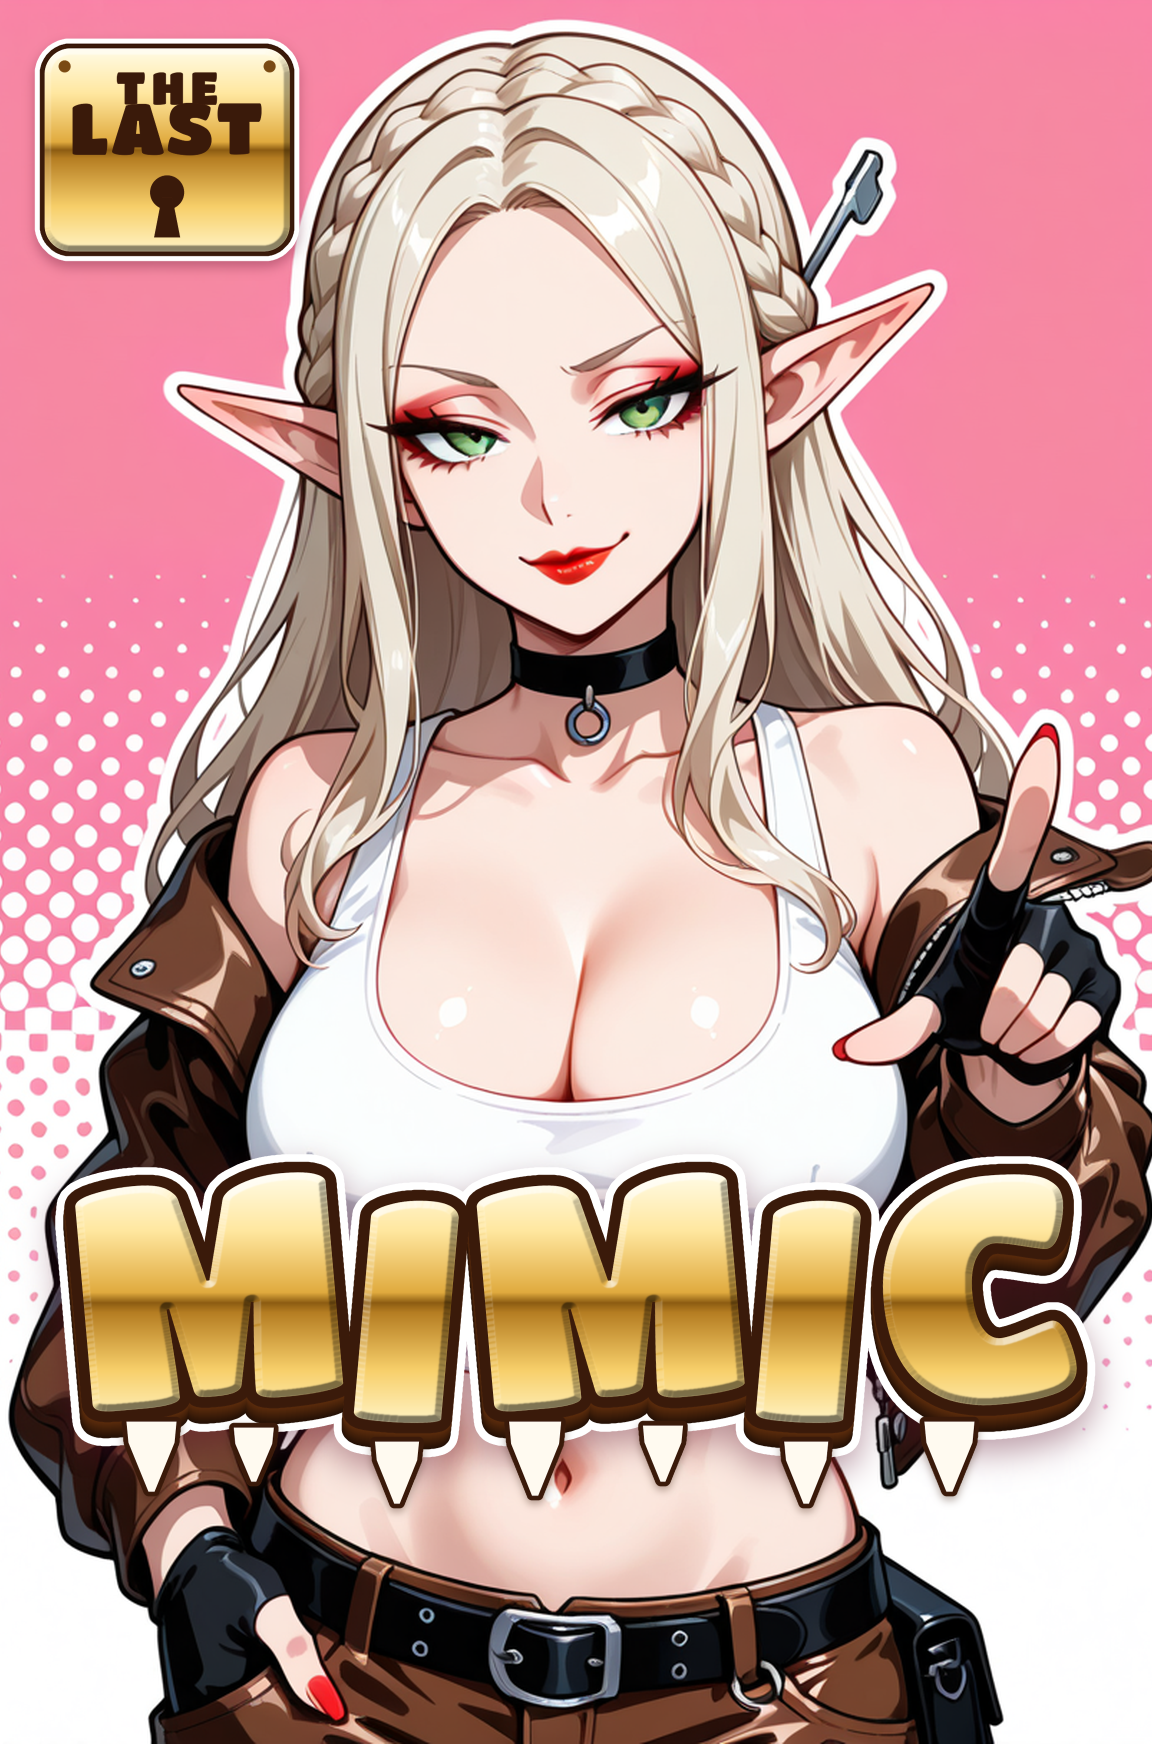
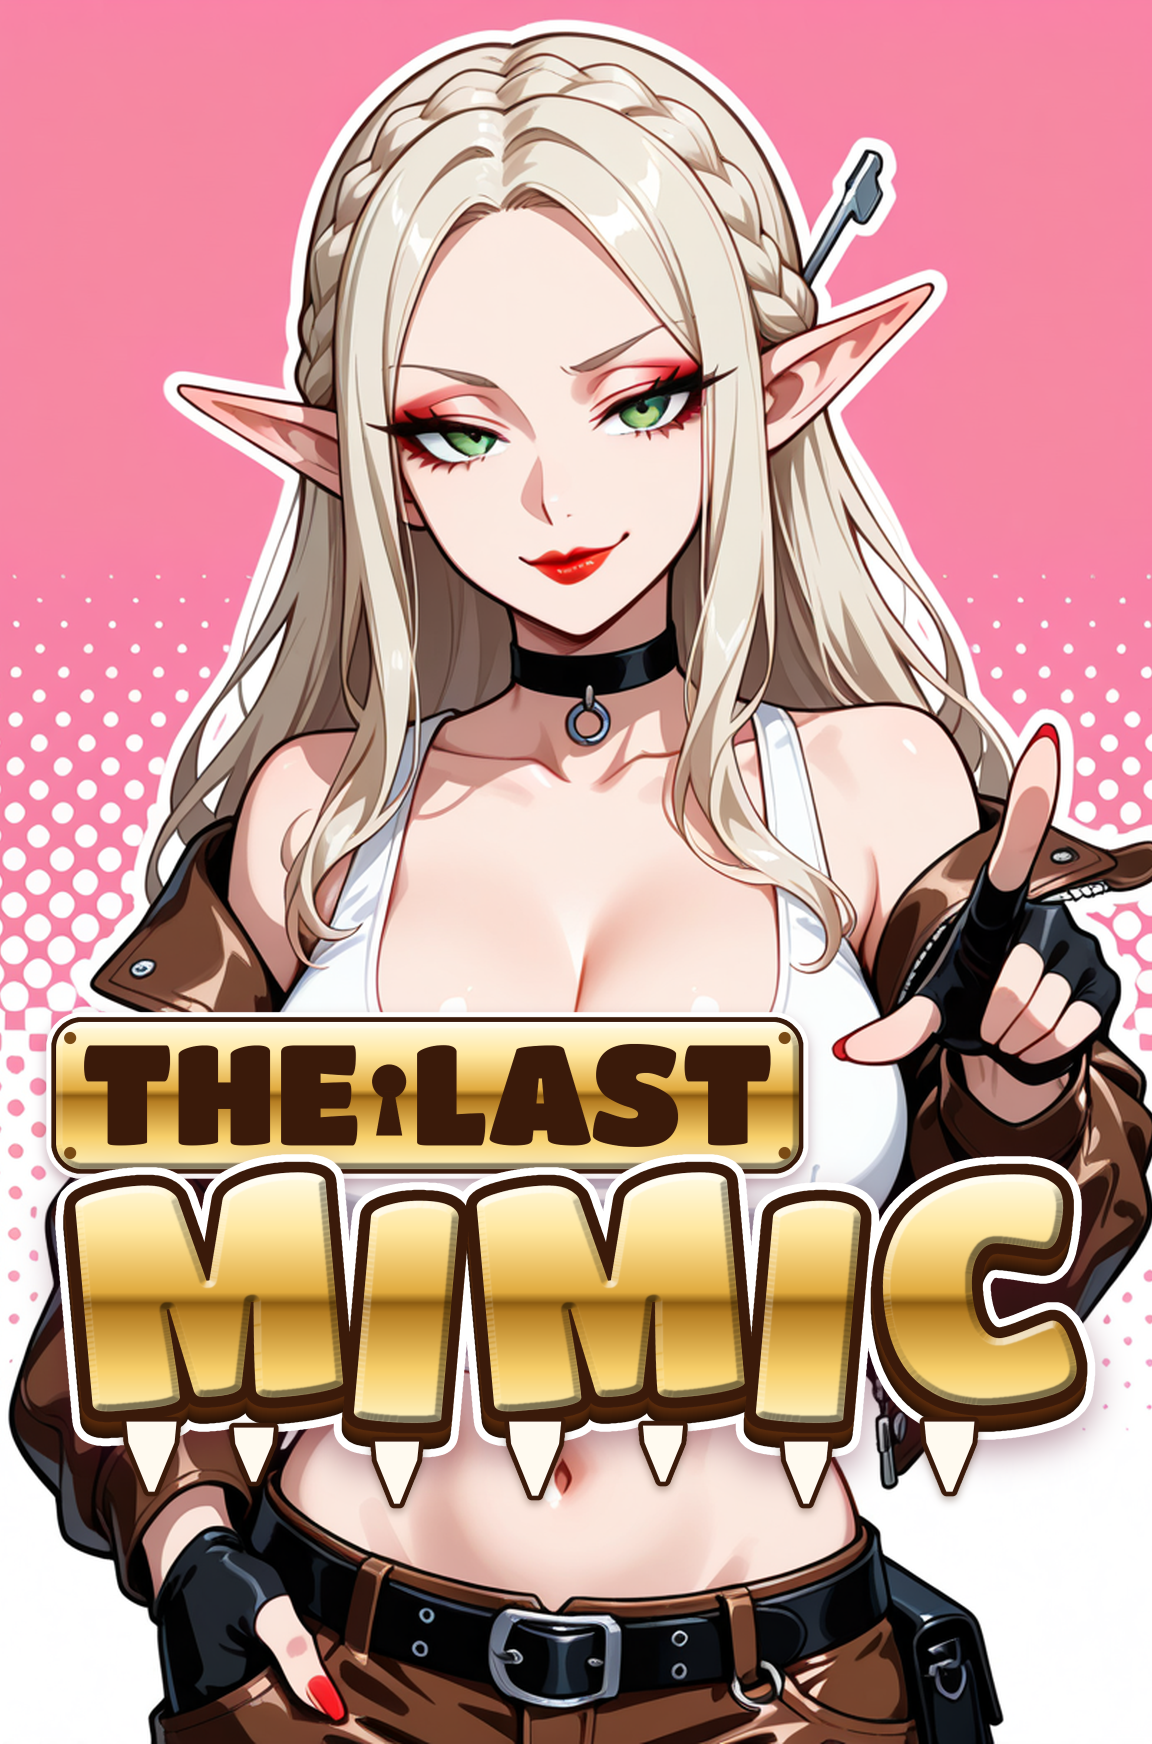
Cover titles v4: bigger lead-ins and more contrast on five weak covers
Three Heroines: navy outer stroke 21 -> 30 with a crisper navy shadow so
the script parts from the red sleeves; the and-a-Porter tag is about 1.4x
(Porter cap 48 -> 67) and its string now runs from the eyelet to the title.
Three Feet Apart: THREE / FEET at a 96 px cap (was 64-70), APART 159
(was 137), heavier black outline, tape shortened to the gap. Ranking Board:
THE white on a red tab at a 70 px cap (was red on smoked glass, 54),
RANKING / BOARD 110 / 148 (was 92 / 124), panel near-opaque. Hero's Spare:
THE HERO'S 96 -> 128 px (cap 90) with a dark keyline; the whole block moves
to the empty top band, since the 1.7x tag covered her hand on the hilt
(placement LL -> TB). Last Mimic: THE LAST on one line at a 100 px cap
(was 33 / 51) on the gold lock plate, keyhole between the words, docked on
MIMIC's top-left corner clear of her thumb. Hand boxes added to the
avoid lists. ALLOCATION rows, zones and the hero-word rule updated
(lead-ins at least ~45% of the hero cap); the checker passes.

Changed region(s): [[0.0312, 0.5573, 0.7188, 0.6812], [0.0312, 0.0, 0.2812, 0.1548]]

diff --git a/docs/stories-50/cover-style-v3/titles/ALLOCATION.md b/docs/stories-50/cover-style-v3/titles/ALLOCATION.md
@@ -37,7 +37,8 @@ raws with the v4 centred crop and checked on an overlay of every cover. Zone is 
 title ink goes; Face boxes become the spec's `avoid` (multiply by 1152 and 1744). They are
 eyeballed, so keep a margin and run `--debug` on each render.
 
-**Hero word.** Each brief names one hero word, at least twice the cap height of the rest.
+**Hero word.** Each brief names one hero word, the biggest on the cover. Lead-in and small words
+are at least ~45% of its cap height, so every word still reads on a 160 px shelf tile.
 
 | # | storyId | Title | Recipe | Genre / tone | Primary | Accent | Place | Treatment | Zone | Face | Brief |
 |---|---|---|---|---|---|---|---|---|---|---|---|
@@ -73,21 +74,21 @@ eyeballed, so keep a margin and run `--debug` on each render.
 | 30 | story_struck_from_the_register | Struck From the Register | gilded-over-the-shoulder | Sword-house underdog drama; disgrace, resolve | Yuji Syuku | none | DG | rice-paper strip + brush strike | .04-.96,.63-.89 | .42-.60,.08-.22 | The family register: a torn cream rice-paper strip tilted -6 deg across the robe, "STRUCK FROM THE" small and hero "REGISTER" in Yuji Syuku black ink (the light serif reads solid on the paper), with one thick red dry-brush stroke struck through REGISTER. Ink and vermilion on cream over emerald and gold. |
 | 31 | story_ten_points_to_expulsion | Ten Points to Expulsion | holy-high-key | Points-system academy drama; tense, clever | Teko | VT323 | LL | points bar | .04-.96,.68-.90 | .40-.60,.05-.22 | Upright, no plate: a navy double rule like the head of a disciplinary notice, hero "TEN POINTS" in Teko 700 navy with TEN in red, "TO EXPULSION" in tracked Teko 600 navy at the same width, then a thick white points meter with a navy frame and only its first segment lit red; beside it the score "1000" struck through in red and a big red "10" in VT323. Navy and red on the white dress and window light. |
 | 32 | story_the_cult_master_wakes_as_a_servant | The Cult Master Wakes as a Servant | ink-and-one-red | Murim revenge, martial arts; cold, patient | Protest Revolution | Shippori Mincho B1 | DG | sumi swash knockout + hanko | .00-1.00,.66-1.00 | .42-.60,.08-.24 | A wide black sumi dry-brush swash tilted -6 deg across the trousers, bleeding off the right edge in dry streaks; on it "THE CULT" over hero "MASTER" (75% of the cover wide) in Protest Revolution paper-white, roughened and distressed so the strokes read as brush; a thin red rule, then "WAKES AS A SERVANT" in Shippori Mincho B1 800 white at a 45 px cap; a red hanko seal 教主 on the swash's top edge and a few ink splatters. Black ink, white paper, one red; nothing left in the top-right corner. |
-| 33 | story_the_hero_s_spare | The Hero’s Spare | system-window | Isekai survival comedy; the hero's backup | Gochi Hand | Marcellus | LL | gold banner + name-tag sticker | .06-.75,.69-.96 | .42-.60,.29-.42 | Scaled up so the joke reads on the shelf: a gold engraved banner "THE HERO'S" in Marcellus at 96 px, and slapped over its lower edge at -4 deg a white HELLO MY NAME IS name tag 70% of the cover wide with a red top band, where hero "SPARE" is scrawled in black Gochi Hand felt-tip at about a 150 px cap. Gold banner vs cheap sticker over the dark green lower left; her hand on the hilt stays visible. |
-| 34 | story_the_last_mimic | The Last Mimic | hot-pink-poster | Monster-isekai comedy; greedy, bouncy | Titan One | none | CW | treasure gold + fangs | .02-.16,.02-.12; .04-.96,.78-.97 | .32-.64,.04-.26 | Corner logo top-left: "THE LAST" on a small gold lock-plate tag. Giant hero at the bottom: "MIMIC" in Titan One treasure-gold metal with a dark-brown stroke, bouncy alternating jitter, and a row of white fangs hanging from the bottom edge like a chest lid. Gold and brown on hot pink. |
+| 33 | story_the_hero_s_spare | The Hero’s Spare | system-window | Isekai survival comedy; the hero's backup | Gochi Hand | Marcellus | TB | gold banner + name-tag sticker | .03-.86,.03-.29; .06-.42,.29-.30 | .42-.60,.29-.42 | Top band over the empty dark sky, so her face, the hologram hand and her hand on the hilt all stay clear: a gold engraved banner "THE HERO'S" in Marcellus at 128 px (cap about 90 px, with a thin dark keyline so it holds at shelf size), and slapped over its lower edge at -4 deg a white HELLO MY NAME IS name tag two thirds of the cover wide with a red top band, where hero "SPARE" is scrawled in black Gochi Hand felt-tip at about a 127 px cap. Gold banner vs cheap sticker on dark green. |
+| 34 | story_the_last_mimic | The Last Mimic | hot-pink-poster | Monster-isekai comedy; greedy, bouncy | Titan One | none | CW | treasure gold + fangs | .04-.70,.58-.68; .04-.96,.66-.91 | .32-.64,.04-.26 | "THE LAST" on a gold lock-plate tag (Titan One, dark brown, cap about 100 px, a keyhole between the words, a rivet at each corner) docked on the top-left corner of the giant hero word; the plate stops short of her pointing thumb. It was a cover-corner tag, too small to read on the shelf. Giant hero at the bottom: "MIMIC" in Titan One treasure-gold metal with a dark-brown stroke, bouncy alternating jitter, and a row of white fangs hanging from the bottom edge like a chest lid. Gold and brown on hot pink. |
 | 35 | story_the_maid_owns_the_house_now | The Maid Owns the House Now | gilded-over-the-shoulder | Role-reversal romcom; dry, glamorous | Playfair Display | Rubik Dirt | LL | velvet nameplate + auction stamp | .03-.97,.69-.96 | .50-.68,.06-.20 | A deep emerald-to-black velvet nameplate (gold inline border, soft shadow) in the lower left, 78% of the cover wide: hero "THE MAID" in upright Playfair Display 900 capitals, pearl-ivory with a gold edge and a dark keyline, a gold diamond rule, then "OWNS THE HOUSE" in tracked gold Playfair caps (ivory, not gold, so it does not echo the Inherited plaque). The punchline "NOW" is a big red auction rubber stamp in Rubik Dirt (double rough border, dark halo) at -8 deg, overlapping the plate's top edge. Gold and ivory on emerald velvet, one red. |
 | 36 | story_the_morning_of_the_gallows | The Morning of the Gallows | holy-high-key | Dark regression romance; cold, elegant | Bodoni Moda | Alex Brush + Cinzel | BT | script + Didone (sample) | .06-.94,.68-.96 | .33-.63,.06-.28 | Sample, kept as approved: "The Morning" in crimson Alex Brush, "OF THE" in Cinzel, hero "GALLOWS" in big black Bodoni Moda with diamond-ended rules. |
 | 37 | story_the_one_copper_inn | The One-Copper Inn | cosy-lamp-bokeh | Cosy isekai innkeeping romance; warm, homely | Rye | none | TB | hanging inn sign, copper | .08-.92,.02-.18 | .50-.64,.21-.31 | A hanging wooden inn sign (dark walnut plate on two chains up to the top edge) across the string lights: "THE ONE-COPPER" small and hero "INN" in Rye with copper metal fill and a carved dark inner shadow, a copper coin on the left end. Copper and walnut in amber light. |
 | 38 | story_the_only_girl_at_blackthorn | The Only Girl at Blackthorn | holy-high-key | Knight-academy romance rivalry; proud, sharp | Pirata One | Grenze Gotisch | UL | blackletter + crimson keyline + thorn vine | .03-.43,.02-.29 | .44-.62,.08-.25 | Upper left over the bright gothic window: "The Only Girl at" in Grenze Gotisch 600 crimson #b0345a at 64 px (its t reads), over hero "BLACK" / "THORN" on two lines in Pirata One solid black, each about 38% of the cover wide, with a thin white gap and a crimson keyline, and a crimson thorn-vine rule under THORN. Black and crimson on white window light; the bottom band is left to Thornwitch. |
 | 39 | story_the_only_man_at_thornwitch | The Only Man at Thornwitch | starlit-night | Witch-college romcom mystery; moonlit, mischievous | Limelight | Great Vibes | CG | moon-silver + thorn vines | .07-.93,.74-.95 | .43-.52,.10-.17 | Centred in the open galaxy below her dress, read as one title: "The Only Man at" in Great Vibes moon-silver with a navy stroke and a pale-blue glow, its tail tucked into the top of hero "THORNWITCH" in Limelight with moon-silver metal fill and a dark navy keyline, a thorn-vine ornament with silver thorns curling under it. Silver and navy on deep blue. |
-| 40 | story_the_ranking_board | The Ranking Board | thumbnail-pop | Fighting-college action; bruising, competitive | Barlow Condensed | none | LL | smoked-glass leaderboard | .02-.55,.62-.98 | .42-.65,.05-.24 | The glass ranking wall in the yellow burst under her fist, lower left: a smoked-glass panel with a white top rule, "THE" in red, hero "RANKING" and "BOARD" in Barlow Condensed italic 800 white (cap about 95 px), and three leaderboard rows (86, 87, 88) with 87 on a red bar. Smoked black glass and red on yellow. |
+| 40 | story_the_ranking_board | The Ranking Board | thumbnail-pop | Fighting-college action; bruising, competitive | Barlow Condensed | none | LL | smoked-glass leaderboard | .02-.62,.60-.98 | .42-.65,.05-.24 | The glass ranking wall in the yellow burst under her fist, lower left: a near-opaque smoked-glass panel with a white top rule, "THE" in white on a red tab (cap about 70 px), hero "RANKING" and "BOARD" in Barlow Condensed italic 800 white (caps about 110 and 148 px), and three leaderboard rows (86, 87, 88) with 87 on a red bar. Smoked black glass and red on yellow. |
 | 41 | story_the_villain_dies_in_chapter_three | The Villain Dies in Chapter Three | holy-high-key | Transmigration academy comedy; doomed, smug | UnifrakturMaguntia | Shippori Mincho B1 | DG | book page + ribbon bookmark | .25-.97,.77-.98 | .42-.64,.08-.28 | A web-novel page: a cream book page with a deckled edge tilted -6 deg over the white gown below her gloved hand, hero "The Villain" in UnifrakturMaguntia black (176 px), "dies in" in Shippori Mincho B1 600 at 64 px between two thin rules, "CHAPTER THREE" in Shippori caps on a red ribbon bookmark, and one red drop. Black and red on cream and white. |
 | 42 | story_the_wolf_clan_s_guest | The Wolf Clan’s Guest | cosy-lamp-bokeh | Beastfolk reverse-harem romance; winter camp, warm | Grenze Gotisch | none | BT | stitched leather banner | .06-.94,.76-.96 | .46-.64,.11-.25 | A stitched brown leather banner (ribbon shape, stitched edge) over the fur and boots: "THE WOLF CLAN'S" small and hero "GUEST" in Grenze Gotisch 800 bone-white from the fur with a dark keyline, a wolf-paw print at one end and a light frost sparkle. Bone and leather in lantern light. |
 | 43 | story_the_zombie_who_said_please | The Zombie Who Said Please | hot-pink-poster | Zombie survival comedy; polite undead | Creepster | Caveat | LR | slime drips + speech bubble | .40-.96,.73-.97 | .36-.62,.07-.29 | "THE" over hero "ZOMBIE" (about 0.48 of its cap) in Creepster slime green #8bd649 from the jacket with a dark stroke and drips, "who said" in Caveat bold (ascenders about 0.53 of ZOMBIE's cap) white with a dark stroke, a white outer line and ZOMBIE's pink drop shadow so it holds on the black trousers, and a pink speech bubble saying "Please" in Caveat bold black, right-aligned over the black trousers and green jacket. Slime green and pink. |
 | 44 | story_thin_walls | Thin Walls | melodrama-red-accent | Neighbour-rival romcom; sniping, close | Big Shoulders Display | none | LL | weight split + hairline wall | .03-.69,.86-.97 | .36-.60,.05-.21; .52-.70,.18-.31 | The pun in weights, one line under the rose, over the dark suit: "THIN" in Big Shoulders Display 400 ice-white at the same 142 px cap as WALLS (the pun is in the weight, not the size) with a 3 px dark keyline, a single glowing hairline standing between the words like the wall, then hero "WALLS" in Big Shoulders Display 900 at a 142 px cap, white-to-ice fill with a red keyline and a dark outer line so it never melts into the red dress. Ice white and red on blue-black. |
 | 45 | story_thirty_days_with_the_number_one_hero | Thirty Days With the Number One Hero | sunlit-webtoon-duo | Superhero fake-dating romcom; sunny, showy | Bangers | Alfa Slab One | TB | comic halftone + calendar strip | .06-.94,.03-.21 | .04-.22,.37-.50; .26-.45,.24-.40 | In the big sky: "THIRTY DAYS WITH THE" in Alfa Slab One red on a white tear-off calendar strip, then hero "NUMBER ONE HERO" in Bangers yellow #ffd23f with a navy stroke and halftone shadow, and a star badge "No.1". Comic yellow, navy and red on blue sky. |
-| 46 | story_three_feet_apart | Three Feet Apart | hot-pink-poster | Enemies-to-lovers court-mage comedy; bickering | Rampart One | none | WR | 3D outline + magic tether | .03-.36,.78-.96; .66-.97,.78-.96 | .32-.63,.04-.24 | The words are literally apart, either side of his pointing hand: "THREE" / "FEET" on the left and hero "APART" larger on the right, in Rampart One (built-in 3D outline) white with a black stroke, joined across the hand by a glowing green magic tether drawn as a measuring tape. White, black and spell-green on grey and pink. |
-| 47 | story_three_heroines_and_a_porter | Three Heroines and a Porter | sunlit-webtoon-duo | Harem isekai ensemble comedy; bright, chaotic | Kaushan Script | Gochi Hand | BT | brush script + luggage tag | .04-.96,.78-.97 | .16-.40,.11-.26; .50-.70,.13-.26 | Hero "Three Heroines" in Kaushan Script, white fill with a red double stroke and a navy outer stroke, over the meadow and legs; "and a Porter" handwritten in Gochi Hand on a kraft luggage tag hanging from the last letter on a string. White, red and kraft on green and sky blue. |
+| 46 | story_three_feet_apart | Three Feet Apart | hot-pink-poster | Enemies-to-lovers court-mage comedy; bickering | Rampart One | none | WR | 3D outline + magic tether | .04-.41,.80-.98; .60-.98,.83-.98 | .32-.63,.04-.24 | The words are literally apart, either side of his pointing hand: "THREE" / "FEET" on the left (cap 96 px) and hero "APART" larger on the right (stretched to about a 159 px cap), in Rampart One (built-in 3D outline) white with a heavy black stroke, joined across the hand by a glowing green magic tether drawn as a measuring tape. White, black and spell-green on grey and pink. |
+| 47 | story_three_heroines_and_a_porter | Three Heroines and a Porter | sunlit-webtoon-duo | Harem isekai ensemble comedy; bright, chaotic | Kaushan Script | Gochi Hand | BT | brush script + luggage tag | .03-.97,.75-.98 | .16-.40,.11-.26; .50-.70,.13-.26 | Hero "Three Heroines" in Kaushan Script, white fill with a red double stroke and a heavy navy outer stroke and shadow that part it from the red sleeves, over the meadow and legs; "and a Porter" handwritten in Gochi Hand (Porter cap about 67 px) on a big kraft luggage tag at lower right, tied to the title by a string from its eyelet. White, red and kraft on green and sky blue. |
 | 48 | story_three_skills_a_morning | Three Skills a Morning | ink-and-one-red | Skill-draw isekai mystery; noon deadline | Press Start 2P | none | LR | pixel skill cards | .46-.97,.70-.97 | .27-.48,.17-.35 | Three skill cards fanned over the dark coat at lower right (white cards, black pixel frames, the middle one red), as if just drawn: hero "THREE SKILLS" in Press Start 2P black with a white outline across the fan and "A MORNING" under it at 50 px (0.64 of the hero), right-aligned to SKILLS, with a pixel sun to its left. Black, white and one red over ink line art; the red knife on the left stays clear. |
 | 49 | story_ironclad_cadets | Unit Nine | thumbnail-pop | Mecha military school action; scrappy pilot | Saira Stencil One | none | LL | spray stencil on steel | .02-.98,.79-.99; .70-.96,.74-.84 | .32-.54,.11-.29 | Hangar stencil, no hazard stripes: a riveted grey armour band across the bottom (chamfered corners, brushed steel, bevel, 14 rivets) with hero "NINE" sprayed in Saira Stencil One white at 75% of the cover wide (chipped spray, overspray), a raised tab at its left end carrying "UNIT", and a large unit number "09" sprayed straight onto the art above the right end in mecha orange. Steel grey, white and orange under the blue mech. |
 | 50 | story_villain_track | Villain Track | system-window | Villain-academy heist; slick, mischievous | Audiowide | none | UL | gradient + racing stripes | .03-.74,.03-.24 | .40-.60,.27-.43 | One block at top left above her head: hero "VILLAIN" in Audiowide (720 px wide, +8 deg slant) with a violet-to-magenta gradient, a thin white inline, dark and pink keylines and a magenta glow; "TRACK" right under it at 0.87 of its cap, right-aligned, with three magenta racing stripes running in from the left to it, and a domino-mask ornament over the N. Violet and magenta against acid green. |
